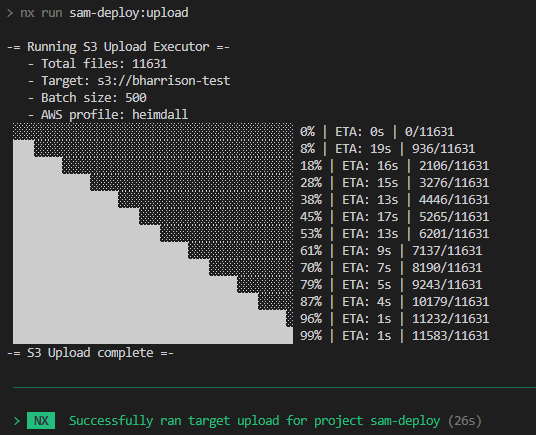
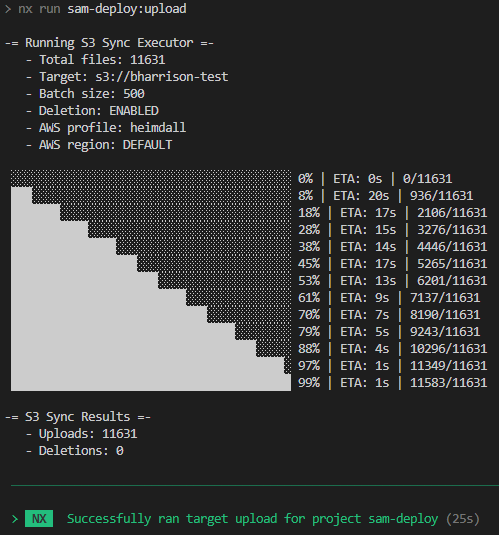
bump version, fix output so it doesnt interfere with progress bar

Changed region(s): [[0.0, 0.0, 0.992, 0.8667], [0.0301, 0.9264, 0.9619, 0.9862]]

diff --git a/packages/nx-s3-plugin/src/executors/sync/executor.ts b/packages/nx-s3-plugin/src/executors/sync/executor.ts
@@ -30,6 +30,7 @@ export default async function runExecutor({
   console.log(`   - Deletion: ${deleteFiles ? 'ENABLED' : 'DISABLED'}`);
   console.log(`   - AWS profile: ${profile ? profile : 'DEFAULT'}`);
   console.log(`   - AWS region: ${region ? region : 'DEFAULT'}`);
+  console.log(' ');
 
   const s3Client = new S3Client({
     region,
@@ -56,8 +57,9 @@ export default async function runExecutor({
     });
   }
 
+  let results;
   try {
-    const { uploads, deletions } = await sync(sourceFiles, bucketUrl, {
+    results = await sync(sourceFiles, bucketUrl, {
       del: deleteFiles,
       monitor,
       maxConcurrentTransfers: batchSize,
@@ -65,13 +67,14 @@ export default async function runExecutor({
         ContentType: (syncCommandInput) => lookup(syncCommandInput.Key) || '',
       },
     });
-
-    console.log(`-= S3 Sync Results =-`);
-    console.log(`   - Uploads: ${uploads.length}`);
-    console.log(`   - Deletions: ${deletions.length}`);
   } finally {
     progressBar.stop();
   }
+
+  console.log(' ');
+  console.log(`-= S3 Sync Results =-`);
+  console.log(`   - Uploads: ${results.uploads.length}`);
+  console.log(`   - Deletions: ${results.deletions.length}`);
 
   return {
     success: true,
